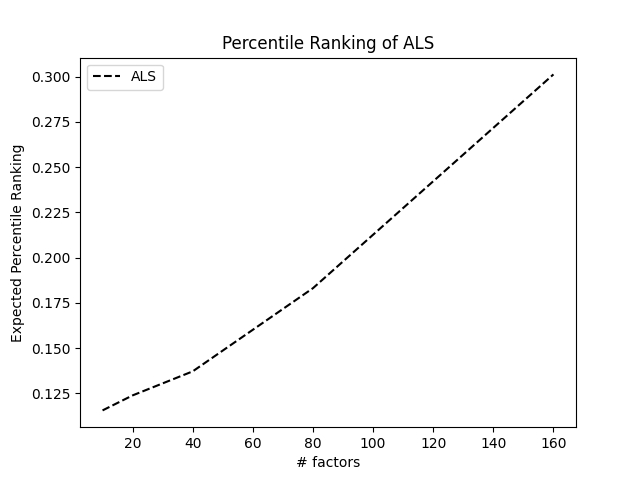
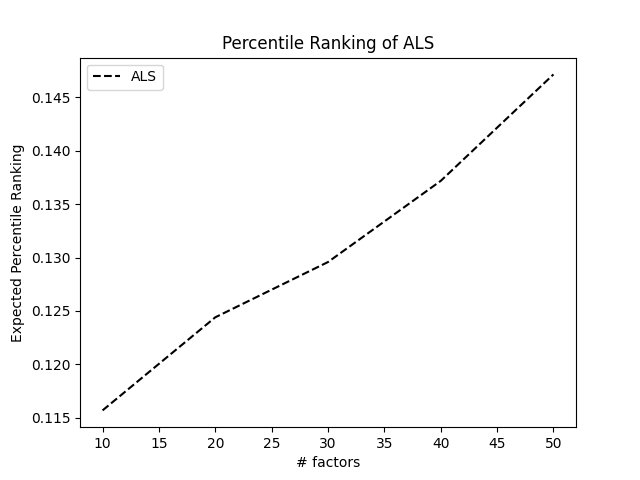
BPR-MF accomplished

diff --git a/BPR_MF.py b/BPR_MF.py
@@ -1,0 +1,132 @@
+import numpy as np
+from scipy import sparse
+from tqdm import tqdm
+import random
+from sklearn.metrics import roc_auc_score
+import matplotlib.pyplot as plt
+
+class BPR :
+
+    def __init__(self, path, n_factor, lr, reg_u, reg_i, batch_size, seed=30) :
+
+        self.path = path
+        self.dataset_name = "MovieLens-100K"
+        self.f = n_factor
+        self.lr = lr
+        self.reg_u = reg_u
+        self.reg_i = reg_i
+        self.batch_size = 1
+        self.seed = seed
+
+    def run(self) :
+
+        self.load_data()
+        self.train()
+        performance = self.evaluate()
+        return performance
+
+    def load_data(self) :
+
+        print(f"Dataset {self.dataset_name}")
+        np.random.seed(self.seed)
+        print(f"# Factors : {self.f}")
+        with open(self.path + "u.user", "r") as user_info_file :
+            self.n_users = len(user_info_file.readlines())
+        with open(self.path + "u.item", "r", encoding="ISO-8859-1") as item_info_file :
+            self.n_items = len(item_info_file.readlines())
+        with open(self.path + "u.data", "r") as f :
+            self.matrix = np.zeros((self.n_users, self.n_items))
+            lines = f.readlines()
+            for line in lines :
+                row, col, val = map(int, line.strip().split("\t")[:-1])
+                self.matrix[row-1, col-1] = val
+        # print(self.matrix[:10,:10])
+        self.data_splitter = np.random.binomial(n=1, p=0.8, size=self.matrix.shape)
+        self.train_matrix = np.where(np.multiply(self.matrix, self.data_splitter) > 0, 1, 0)
+        # print(train_matrix[:10,:10])
+        self.train_matrix = sparse.csr_matrix(self.train_matrix)
+        self.test_matrix = np.where(np.multiply(self.matrix, self.data_splitter^1) > 0, 1, 0)
+        # print(test_matrix[:10,:10])
+        # self.test_matrix = sparse.csr_matrix(test_matrix)
+
+    def train(self) :
+
+        self.U = np.random.normal(scale=1.0/self.f, size=(self.n_users, self.f))
+        self.I = np.random.normal(scale=1.0/self.f, size=(self.n_items, self.f))
+        
+        # batch_iter = len(self.train_matrix.indices) // self.batch_size
+        for episode in tqdm(range(500)) :
+            for _ in range(self.n_users):
+                batch_uij = self.sample()
+                self.sgd(batch_uij)
+
+    def sample(self) :
+
+        indptr = self.train_matrix.indptr
+        indices = self.train_matrix.indices
+
+        users = np.random.choice(self.n_users, size=self.batch_size)
+        pos_items = []
+        neg_items = []
+        for idx, user in enumerate(users) :
+            p_items = indices[indptr[user]: indptr[user+1]]
+            p_item = np.random.choice(p_items)
+            n_item = np.random.choice(self.n_items)
+            while n_item in p_items :
+                n_item = np.random.choice(self.n_items)
+            pos_items.append(p_item)
+            neg_items.append(n_item)
+        pos_items = np.array(pos_items)
+        neg_items = np.array(neg_items)
+        return users, pos_items, neg_items
+
+    def sgd(self, batch_uij) :
+
+        batch_u, batch_i, batch_j = batch_uij
+        batch_U = self.U[batch_u]
+        batch_I= self.I[batch_i]
+        batch_J = self.I[batch_j]
+
+        x_uij = np.sum(np.multiply(batch_U, batch_I-batch_J), axis=1)
+        X = np.exp(-x_uij) / (1.0 + np.exp(-x_uij))
+        expand_X = np.expand_dims(X, 1)
+
+        grad_U = expand_X*(batch_J-batch_I) + self.reg_u*batch_U
+        grad_I = expand_X*(-batch_U) + self.reg_i*batch_I
+        grad_J = expand_X*(batch_U) + self.reg_i*batch_J
+
+        self.U[batch_u] -= self.lr*grad_U
+        self.I[batch_i] -= self.lr*grad_I
+        self.I[batch_j] -= self.lr*grad_J
+
+    def evaluate(self) :
+
+        indptr = self.train_matrix.indptr
+        indices = self.train_matrix.indices
+
+        auc = 0.0
+        self.train_matrix = self.train_matrix.toarray()
+        for i in range(self.n_users) :
+            y_pred = np.matmul(self.U[i], self.I.T)
+            y_true = self.train_matrix[i]
+            if np.sum(y_true) <= 0.0 :
+                continue
+            auc += roc_auc_score(y_true, y_pred)
+
+        auc /= self.n_users
+        print(f"AUC : {auc}")
+        return auc
+
+if __name__ == "__main__" :
+
+    n_factors = [10, 20, 50, 100]
+    performance_list = []
+    for n_factor in n_factors :
+        bpr = BPR("./ml-100k/", n_factor=n_factor, lr=0.1, reg_u=0.02, reg_i=0.02, batch_size=120)
+        performance = bpr.run()
+        performance_list.append(performance)
+
+    plt.plot(performance_list, label="BPR-MF", color = "black", marker="s", linestyle="dashed")
+    plt.xticks(np.arange(4), n_factors)
+    plt.legend()
+    plt.savefig("./data/BPR_MF(AUC curve)")

diff --git a/sandbox.py b/sandbox.py
@@ -63,12 +63,20 @@ x1 = np.random.normal(size=(3, 4))
 # print(np.matmul(np.transpose(expanded_lookup, axes=[0,2,1]), expanded_lookup))
 
 
-a = np.array([[0,1,0,0],[0,0,1,1],[0,0,1,0]])
-a = torch.tensor(a)
-print(a.view(3, 1, 4))
-# a = sparse.csr_matrix(a)
-# print(a.indices)
-# print(a.indptr)
+# a = np.array([[0,1,0,0],[0,0,1,1],[0,0,1,0]])
+# a = torch.tensor(a)
+# print(a.view(3, 1, 4))
+# # a = sparse.csr_matrix(a)
+# # print(a.indices)
+# # print(a.indptr)
+
+# a = np.array([[1],[3],[5]])
+# print(np.sum(a, axis=1))
+
+a = np.array([[1, 3, 5],[1, 3, 5]])
+b = np.array([[2, 4, 6], [2, 4, 6]])
+
 
 a = np.array([[1],[3],[5]])
-print(np.sum(a, axis=1))
+b = np.array([[1, 2],[2, 4],[3, 6]])
+print(a*b)

diff --git a/ALS.py b/ALS.py
@@ -86,9 +86,9 @@ class ALS :
 
 if __name__ == "__main__" :
     performance_list = []
-    n_factors = [10, 20, 40, 80, 160]
+    n_factors = [10, 20, 30, 40, 50]
     for n_factor in n_factors :
-        als = ALS("./ml-100k/", n_factor=n_factor, alpha=40, reg=1.0/n_factor, seed=10)
+        als = ALS("./ml-100k/", n_factor=n_factor, alpha=40, reg=0.002, seed=10)
         performance = als.run()
         performance_list.append(performance)
 
